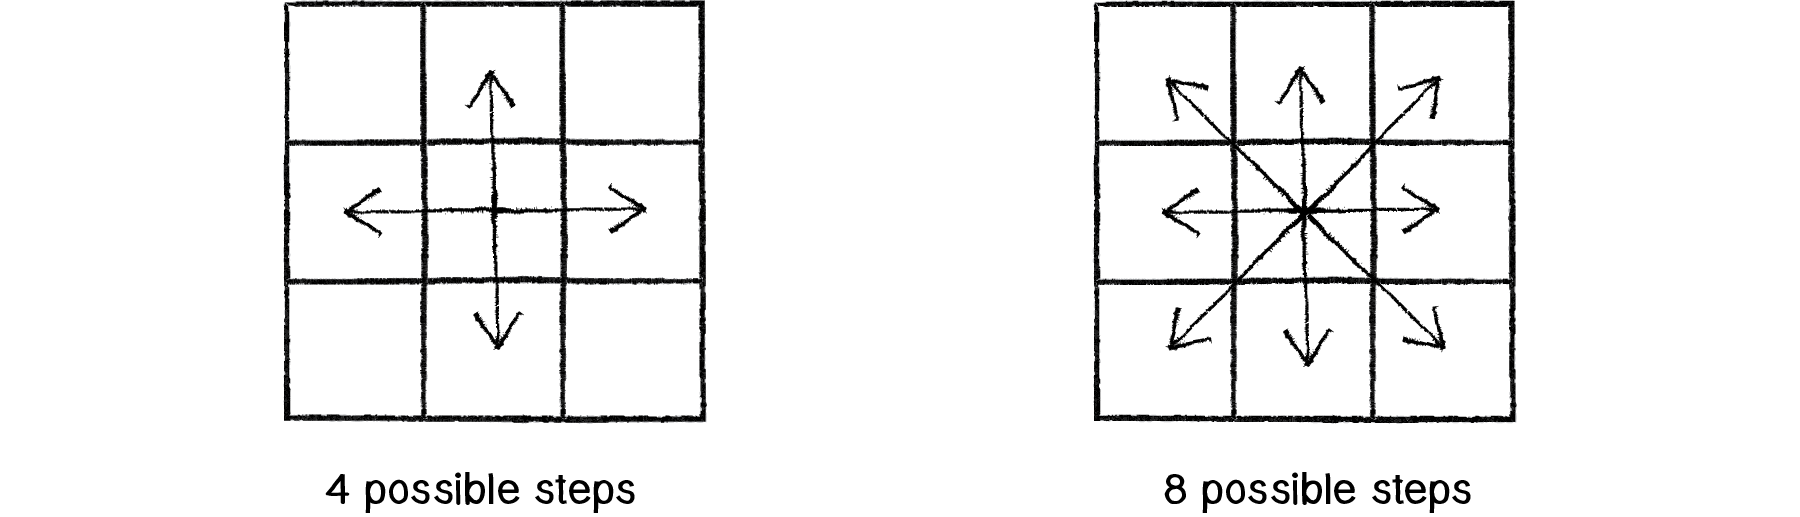
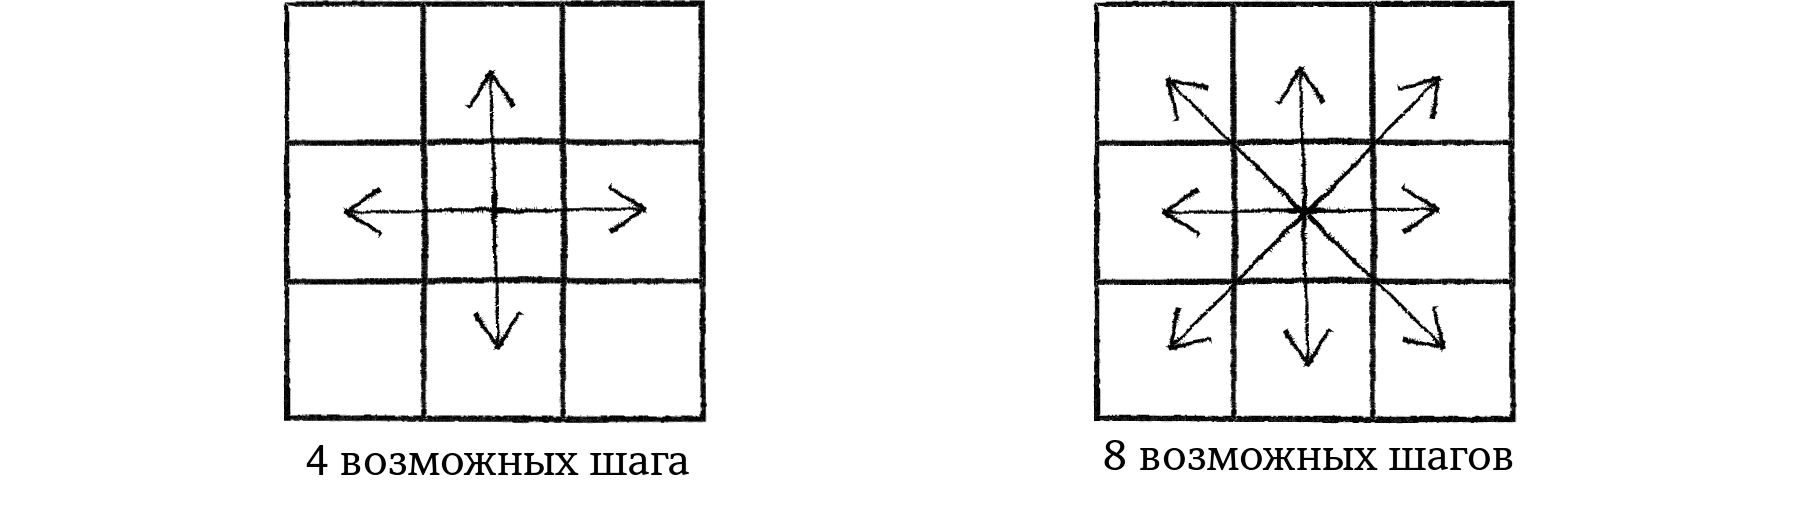
intro 1

Changed region(s): [[0.1556, 0.8665, 0.4044, 0.9903], [0.5911, 0.8665, 0.84, 0.9903]]

diff --git a/book/index.html b/book/index.html
@@ -225,29 +225,25 @@
                     </div>
                     <div style="position: relative;clear:both;display:block;height:1px;width:100%;"></div>
                 </div>
-                <p>The second function directs the <span class="klass">Walker</span> object to take a step. Now, this is where things get a bit more interesting. Remember that floor on which we were taking random steps? Well, now we can use a Processing window in that same capacity. There are four possible steps. A step to the right can be simulated by incrementing <span class="var">x</span> (<span class="var">x</span>++); to the left by decrementing <span class="var">x</span> (<span class="var">x--</span>); forward by going down a pixel (<span class="var">y++</span>); and backward by going up a pixel (<span class="var">y--</span>). How do we pick from these four choices? Earlier we stated that we could flip two coins. In Processing, however, when we want to randomly choose from a list of options, we can pick a random number using <span class="function">random()</span>.</p>
-                <p>
-                    <a id="random-number-generatorsrandom-function-81ed4850-253f-0130-ba1b-7cd1c3f718ad" style="display: block;"></a>
-                    <a id="random-function-81ed5ba0-253f-0130-ba1c-7cd1c3f718ad" style="display: block;"></a>
-                </p>
+                <p>Вторая функция выбирает направление объекта<span class="klass">Walker</span> для следующего шага. Теперь всё становиться немного интереснее. Помните,как вы выбирали направление движения на полу? Сейчас используем Processing для отображения. У нас есть четыре возможных варианта. Шаг вправо будет реализован увеличение x на один <span class="var">x</span> (<span class="var">x</span>++); влево уменьшение x на один <span class="var">x</span> (<span class="var">x--</span>); вперёд, спустившись на один пиксель (<span class="var">y++</span>); и назад, поднявшись на один (<span class="var">y--</span>). Как выбрать из этих вариантов? Ранее мы подбрасывали две монетки. В Processing, однако,когда мы захотим случайно выбрать из списка вариантов, мы выберем случайное число с помощью функции <span class="function">random()</span>.</p>
                 <div class="source-code">
                     <a class="toggle" href="#" data-to-raw='Показать исходники' data-to-formatted='Показать отформатированный'>Показать исходники</a>
-                    <textarea> void step() { // 0, 1, 2, or 3 int choice = int(random(4));</textarea>
+                    <textarea> void step() { // 0, 1, 2, или 3 int choice = int(random(4));</textarea>
                     <div class="code-block">
                         <div class='code-comment-pair no-comment'><code><pre><span class='one-line'>  <span class="kt">void</span> <span class="nf">step</span><span class="o">()</span> <span class="o">{</span></span></pre></code></div>
                         <div class='code-comment-pair '>
-                            <div class='code-comment '>0, 1, 2, or 3</div><code><pre><span class='one-line'>    <span class="kt">int</span> <span class="n">choice</span> <span class="o">=</span> <span class="kt">int</span><span class="o">(</span><span class="n">random</span><span class="o">(</span><span class="mi">4</span><span class="o">));</span></span></pre></code></div>
+                            <div class='code-comment '>0, 1, 2, или 3</div><code><pre><span class='one-line'>    <span class="kt">int</span> <span class="n">choice</span> <span class="o">=</span> <span class="kt">int</span><span class="o">(</span><span class="n">random</span><span class="o">(</span><span class="mi">4</span><span class="o">));</span></span></pre></code></div>
                     </div>
                     <div style="position: relative;clear:both;display:block;height:1px;width:100%;"></div>
                 </div>
-                <p>The above line of code picks a random floating point number between 0 and 4 and converts it to an integer, with a result of 0, 1, 2, or 3. Technically speaking, the highest number will never be 4.0, but rather 3.999999999 (with as many 9s as there are decimal places); since the process of converting to an integer lops off the decimal place, the highest <span class="var">int</span> we can get is 3. Next, we take the appropriate step (left, right, up, or down) depending on which random number was picked.</p>
+                <p>Строка кода выше выбирает случайное число с плавающей запятой (float), находящееся между 0 и 4. Технически говоря, наибольшее число не когда не будет ровно 4.0, оно будет 3.999999999 (с большим кол-вом 9 после запятой); так как процесс перевода к целому числу отсекает всё после запятой, то наибольшее <span class="var">целое число</span>, которе мы можем получить - это 3. Дальше, мы выбирает соответствующее направление (влево, вправо, вверх, или вниз) в зависимости от случайного число.</p>
                 <div class="source-code">
                     <a class="toggle" href="#" data-to-raw='Показать исходники' data-to-formatted='Показать отформатированный'>Показать исходники</a>
-                    <textarea> //[full] The random “choice” determines our step. if (choice == 0) { x++; } else if (choice == 1) { x--; } else if (choice == 2) { y++; } else { y--; } //[end] } }
+                    <textarea> //[full] Случайный “выбор” определяет направление движения. if (choice == 0) { x++; } else if (choice == 1) { x--; } else if (choice == 2) { y++; } else { y--; } //[end] } }
                     </textarea>
                     <div class="code-block">
                         <div class='code-comment-pair stretch'>
-                            <div class='code-comment stretch'> The random “choice” determines our step.</div><code><pre><span class='one-line'>    <span class="k">if</span> <span class="o">(</span><span class="n">choice</span> <span class="o">==</span> <span class="mi">0</span><span class="o">)</span> <span class="o">{</span></span>
+                            <div class='code-comment stretch'> Случайный “выбор” определяет направление движения.</div><code><pre><span class='one-line'>    <span class="k">if</span> <span class="o">(</span><span class="n">choice</span> <span class="o">==</span> <span class="mi">0</span><span class="o">)</span> <span class="o">{</span></span>
 <span class='one-line'>      <span class="n">x</span><span class="o">++;</span></span>
 <span class='one-line'>    <span class="o">}</span> <span class="k">else</span> <span class="k">if</span> <span class="o">(</span><span class="n">choice</span> <span class="o">==</span> <span class="mi">1</span><span class="o">)</span> <span class="o">{</span></span>
 <span class='one-line'>      <span class="n">x</span><span class="o">--;</span></span>
@@ -263,13 +259,13 @@
                     </div>
                     <div style="position: relative;clear:both;display:block;height:1px;width:100%;"></div>
                 </div>
-                <p>Now that we’ve written the class, it’s time to make an actual <span class="klass">Walker</span> object in the main part of our sketch—<span class="function">setup()</span> and <span class="function">draw()</span>. Assuming we are looking to model a single random walk, we declare one global variable of type <span class="var">Walker</span>.</p>
+                <p>Когда мы написали класс, настало время создать из него объект <span class="klass">Walker</span> в основной части нашего эскиза—<span class="function">setup()</span> и <span class="function">draw()</span>. Предполагая, что мы будем рассматривать только одну модель движения, мы объявляем глобальную переменную типа <span class="var">Walker</span>.</p>
                 <div class="source-code">
                     <a class="toggle" href="#" data-to-raw='Показать исходники' data-to-formatted='Показать отформатированный'>Показать исходники</a>
-                    <textarea>// A Walker object Walker w;</textarea>
+                    <textarea>// Объект Walker w;</textarea>
                     <div class="code-block">
                         <div class='code-comment-pair '>
-                            <div class='code-comment '>A Walker object</div><code><pre><span class='one-line'><span class="n">Walker</span> <span class="n">w</span><span class="o">;</span></span></pre></code></div>
+                            <div class='code-comment '>Объект Walker</div><code><pre><span class='one-line'><span class="n">Walker</span> <span class="n">w</span><span class="o">;</span></span></pre></code></div>
                     </div>
                     <div style="position: relative;clear:both;display:block;height:1px;width:100%;"></div>
                 </div>
@@ -277,33 +273,33 @@
                     <a id="new-operator-objects-81ed9eb0-253f-0130-ba1d-7cd1c3f718ad" style="display: block;"></a>
                     <a id="objectnew-operator-81edaf10-253f-0130-ba1e-7cd1c3f718ad" style="display: block;"></a>
                 </p>
-                <p>Then we create the object in <span class="function">setup()</span> by calling the constructor with the <span class="function">new</span> operator.</p>
+                <p>Далее мы создаём объект в <span class="function">setup()</span> путём вызова конструктора с оператором <span class="function">new</span>.</p>
                 <p>
-                    <a id="intro_example1" style="display: block;"></a><span class="example">Example I.1: Traditional random walk</span></p>
-                <p><em>Each time you see the above Example heading in this book, it means there is a corresponding code example available on <a href="http://github.com/shiffman/The-Nature-of-Code-Examples">GitHub</a>.</em></p>
+                    <a id="intro_example1" style="display: block;"></a><span class="example">Пример I.1: Традиционное перемещение в случайном направлении</span></p>
+                <p><em>Каждый раз, когда вы видите заголовок "Пример", это значит, что данный код можно найти на <a href="http://github.com/shiffman/The-Nature-of-Code-Examples">GitHub</a>.</em></p>
                 <div class="source-code">
                     <a class="toggle" href="#" data-to-raw='Показать исходники' data-to-formatted='Показать отформатированный'>Показать исходники</a>
-                    <textarea>void setup() { size(640,360); // Create the Walker. w = new Walker(); //[bold] background(255); }
+                    <textarea>void setup() { size(640,360); // Создание Walker. w = new Walker(); //[bold] background(255); }
                     </textarea>
                     <div class="code-block">
                         <div class='code-comment-pair no-comment'><code><pre><span class='one-line'><span class="kt">void</span> <span class="nf">setup</span><span class="o">()</span> <span class="o">{</span></span>
 <span class='one-line'>  <span class="n">size</span><span class="o">(</span><span class="mi">640</span><span class="o">,</span><span class="mi">360</span><span class="o">);</span></span></pre></code></div>
                         <div class='code-comment-pair '>
-                            <div class='code-comment '>Create the Walker.</div><code><pre><span class='one-line'>  <strong><span class="n">w</span> <span class="o">=</span> <span class="k">new</span> <span class="n">Walker</span><span class="o">();</span></strong></span>
+                            <div class='code-comment '>Создание Walker.</div><code><pre><span class='one-line'>  <strong><span class="n">w</span> <span class="o">=</span> <span class="k">new</span> <span class="n">Walker</span><span class="o">();</span></strong></span>
 <span class='one-line'>  <span class="n">background</span><span class="o">(</span><span class="mi">255</span><span class="o">);</span></span>
 <span class='one-line'><span class="o">}</span></span></pre></code></div>
                     </div>
                     <div style="position: relative;clear:both;display:block;height:1px;width:100%;"></div>
                 </div>
-                <p>Finally, during each cycle through <span class="function">draw()</span>, we ask the <span class="klass">Walker</span> to take a step and draw a dot.</p>
+                <p>Наконец, во время каждого вызова <span class="function">draw()</span>, мы просим <span class="klass">Walker</span> сделать шаг и отрисовать точку.</p>
                 <div class="source-code">
                     <a class="toggle" href="#" data-to-raw='Показать исходники' data-to-formatted='Показать отформатированный'>Показать исходники</a>
-                    <textarea>void draw() { //[full] Call functions on the Walker. w.step(); //[bold] w.display(); //[bold] //[end] }
+                    <textarea>void draw() { //[full] Вызов функции Walker'a. w.step(); //[bold] w.display(); //[bold] //[end] }
                     </textarea>
                     <div class="code-block">
                         <div class='code-comment-pair no-comment'><code><pre><span class='one-line'><span class="kt">void</span> <span class="nf">draw</span><span class="o">()</span> <span class="o">{</span></span></pre></code></div>
                         <div class='code-comment-pair stretch'>
-                            <div class='code-comment stretch'> Call functions on the Walker.</div><code><pre><span class='one-line'>  <strong><span class="n">w</span><span class="o">.</span><span class="na">step</span><span class="o">();</span></strong></span>
+                            <div class='code-comment stretch'> Вызов функции Walker'a</div><code><pre><span class='one-line'>  <strong><span class="n">w</span><span class="o">.</span><span class="na">step</span><span class="o">();</span></strong></span>
 <span class='one-line'>  <strong><span class="n">w</span><span class="o">.</span><span class="na">display</span><span class="o">();</span></strong></span></pre></code>
                             <div style='position:relative;clear:both;display:block;height:1px;width:100%;'></div>
                         </div>
@@ -311,21 +307,21 @@
                     </div>
                     <div style="position: relative;clear:both;display:block;height:1px;width:100%;"></div>
                 </div>
-                <p>Since we only draw the background once in <span class="function">setup()</span>, rather than clearing it continually each time through <span class="function">draw()</span>, we see the trail of the random walk in our Processing window.</p>
+                <p>Поскольку мы отрисовываем фон только один раз в <span class="function">setup()</span>, и не очищаем каждый раз при вызове <span class="function">draw()</span>, мы видим весь путь на нашем Processing окне.</p>
                 <div class="image-container screenshot">
                     <canvas data-processing-sources="/processingjs/intro/_I_1_RandomWalkTraditional/_I_1_RandomWalkTraditional.pde /processingjs/intro/_I_1_RandomWalkTraditional/Walker.pde" class="screenshot">
-                        <p>Your browser does not support the canvas tag.</p>
+                        <p>Ваш браузер не поддерживает canvas тег.</p>
                     </canvas>
                     <div class="sketch-controls">
-                        <button class="reset">RESET</button>
-                        <button class="pause">PAUSE</button>
+                        <button class="reset">СБРОС</button>
+                        <button class="pause">ПАУЗА</button>
                     </div>
                 </div>
-                <p>There are a couple improvements we could make to the random walker. For one, this <span class="klass">Walker</span>’s step choices are limited to four options—up, down, left, and right. But any given pixel in the window has eight possible neighbors, and a ninth possibility is to stay in the same place.</p>
+                <p>Есть несколько улучшений, которые мы могли бы сделать. Во-первых, <span class="klass">Walker</span> выбирает из четырех вариантов движения: вверх, вниз, влево, и право. Но любой пиксель на экране имеет восемь соседей, и девятый возможный вариант - оставаться на месте.</p>
                 <a id="intro_figure1" style="display: block;"></a>
                 <div class="image-container ">
                     <img src="/imgs/intro/intro_01.png" alt="Nature of Code Image" />
-                    <p class="caption">Figure I.1</p>
+                    <p class="caption">Рисунок I.1</p>
                 </div>
                 <p>To implement a <span class="klass">Walker</span> object that can step to any neighboring pixel (or stay put), we could pick a number between 0 and 8 (nine possible choices). However, a more efficient way to write the code would be to simply pick from three possible steps along the x-axis (-1, 0, or 1) and three possible steps along the y-axis.</p>
                 <div class="source-code">
@@ -371,7 +367,7 @@
                 <p>Conveniently, this is how the <span class="function">random()</span> function works. Processing’s random number generator (which operates behind the scenes) produces what is known as a “uniform” distribution of numbers. We can test this distribution with a Processing sketch that counts each time a random number is picked and graphs it as the height of a rectangle.</p>
                 <div class="image-container screenshot">
                     <canvas data-processing-sources="/processingjs/intro/_I_2_RandomDistribution/_I_2_RandomDistribution.pde" class="screenshot">
-                        <p>Your browser does not support the canvas tag.</p>
+                        <p>Ваш браузер не поддерживает canvas тег.</p>
                     </canvas>
                     <div class="sketch-controls">
                         <button class="reset">RESET</button>
@@ -562,7 +558,7 @@
                 </div>
                 <div class="image-container screenshot">
                     <canvas data-processing-sources="/processingjs/intro/_I_3_RandomWalkTendsToRight/_I_3_RandomWalkTendsToRight.pde /processingjs/intro/_I_3_RandomWalkTendsToRight/Walker.pde" class="screenshot">
-                        <p>Your browser does not support the canvas tag.</p>
+                        <p>Ваш браузер не поддерживает canvas тег.</p>
                     </canvas>
                     <div class="sketch-controls">
                         <button class="reset">RESET</button>
@@ -572,7 +568,7 @@
                 <p>
                     <a id="intro_example3" style="display: block;"></a><span class="example">Example I.3: Walker that tends to move to the right</span></p>
                 <div class="source-code">
-                    <a class="toggle" href="#" data-to-raw='Показать исходники' data-to-formatted='Show Formatted'>Показать исходники</a>
+                    <a class="toggle" href="#" data-to-raw='Показать исходники' data-to-formatted='Показать отформатированный'>Показать исходники</a>
                     <textarea> void step() { float r = random(1); //[full] A 40% chance of moving to the right! if (r
                         < 0.4) { x++; //[end] } else if (r < 0.6) { x--; } else if (r < 0.8) { y++; } else { y--; } }</textarea>
                             <div class="code-block">
@@ -606,7 +602,7 @@
                 <h3 id="i4-a-normal-distribution-of-random-numbers">I.4 A Normal Distribution of Random Numbers</h3>
                 <p>Let’s go back to that population of simulated Processing monkeys. Your program generates a thousand Monkey objects, each with a height value between 200 and 300 (as this is a world of monkeys that have heights between 200 and 300 pixels).</p>
                 <div class="source-code">
-                    <a class="toggle" href="#" data-to-raw='Показать исходники' data-to-formatted='Show Formatted'>Показать исходники</a>
+                    <a class="toggle" href="#" data-to-raw='Показать исходники' data-to-formatted='Показать отформатированный'>Показать исходники</a>
                     <textarea>float h = random(200,300);</textarea>
                     <div class="code-block">
                         <div class='code-comment-pair no-comment'><code><pre><span class='one-line'><span class="kt">float</span> <span class="n">h</span> <span class="o">=</span> <span class="n">random</span><span class="o">(</span><span class="mi">200</span><span class="o">,</span><span class="mi">300</span><span class="o">);</span></span></pre></code></div>
@@ -729,7 +725,7 @@
                 <p>Luckily for us, to use a normal distribution of random numbers in a Processing sketch, we don’t have to do any of these calculations ourselves. Instead, we can make use of a class known as <span class="klass">Random</span>, which we get for free as part of the default Java libraries imported into Processing (see <a href="http://docs.oracle.com/javase/6/docs/api/java/util/Random.html">the JavaDocs</a> for more information).</p>
                 <p>To use the <span class="klass">Random</span> class, we must first declare a variable of type <span class="klass">Random</span> and create the <span class="klass">Random</span> object in <span class="function">setup()</span>.</p>
                 <div class="source-code">
-                    <a class="toggle" href="#" data-to-raw='Показать исходники' data-to-formatted='Show Formatted'>Показать исходники</a>
+                    <a class="toggle" href="#" data-to-raw='Показать исходники' data-to-formatted='Показать отформатированный'>Показать исходники</a>
                     <textarea>// We use the variable name “generator” because what we // have here can be thought of as a random number generator. Random generator; void setup() { size(640,360); generator = new Random(); }
                     </textarea>
                     <div class="code-block">
@@ -749,7 +745,7 @@
                 </p>
                 <p>If we want to produce a random number with a normal (or Gaussian) distribution each time we run through <span class="function">draw()</span>, it’s as easy as calling the function <span class="function">nextGaussian()</span>.</p>
                 <div class="source-code">
-                    <a class="toggle" href="#" data-to-raw='Показать исходники' data-to-formatted='Show Formatted'>Показать исходники</a>
+                    <a class="toggle" href="#" data-to-raw='Показать исходники' data-to-formatted='Показать отформатированный'>Показать исходники</a>
                     <textarea>void draw() { // Asking for a Gaussian random number. (Note nextGaussian() returns a double and must be converted to float.) float num = (float) generator.nextGaussian(); }
                     </textarea>
                     <div class="code-block">
@@ -767,7 +763,7 @@
                 <p>The <span class="function">nextGaussian()</span> function returns a normal distribution of random numbers with the following parameters: <em>a mean of zero</em> and <em>a standard deviation of one</em>. Let’s say we want a mean of 320 (the center horizontal pixel in a window of width 640) and a standard deviation of 60 pixels. We can adjust the value to our parameters by multiplying it by the standard deviation and adding the mean.</p>
                 <div class="image-container screenshot">
                     <canvas data-processing-sources="/processingjs/intro/_I_4_Gaussian/_I_4_Gaussian.pde" class="screenshot">
-                        <p>Your browser does not support the canvas tag.</p>
+                        <p>Ваш браузер не поддерживает canvas тег.</p>
                     </canvas>
                     <div class="sketch-controls">
                         <button class="reset">RESET</button>
@@ -777,7 +773,7 @@
                 <p>
                     <a id="intro_example4" style="display: block;"></a><span class="example">Example I.4: Gaussian distribution</span></p>
                 <div class="source-code">
-                    <a class="toggle" href="#" data-to-raw='Показать исходники' data-to-formatted='Show Formatted'>Показать исходники</a>
+                    <a class="toggle" href="#" data-to-raw='Показать исходники' data-to-formatted='Показать отформатированный'>Показать исходники</a>
                     <textarea>void draw() { // Note that nextGaussian() returns a double. float num = (float) generator.nextGaussian(); float sd = 60; float mean = 320; // Multiply by the standard deviation and add the mean. float x = sd * num + mean; noStroke(); fill(255,10); ellipse(x,180,16,16); }
                     </textarea>
                     <div class="code-block">
@@ -832,7 +828,7 @@
                     <a id="lvy-flightimplementing-with-arrays-81f76300-253f-0130-ba50-7cd1c3f718ad" style="display: block;"></a>
                 </p>
                 <div class="source-code">
-                    <a class="toggle" href="#" data-to-raw='Показать исходники' data-to-formatted='Show Formatted'>Показать исходники</a>
+                    <a class="toggle" href="#" data-to-raw='Показать исходники' data-to-formatted='Показать отформатированный'>Показать исходники</a>
                     <textarea>float r = random(1); //[full] A 1% chance of taking a large step if (r
                         < 0.01) { xstep=r andom(-100,100); ystep=r andom(-100,100); //[end] } else { xstep=r andom(-1,1); ystep=r andom(-1,1); }</textarea>
                             <div class="code-block">
@@ -905,7 +901,7 @@
                 </p>
                 <p>Here is a function (named for the Monte Carlo method, which was named for the Monte Carlo casino) that implements the above algorithm, returning a random value between 0 and 1.</p>
                 <div class="source-code">
-                    <a class="toggle" href="#" data-to-raw='Показать исходники' data-to-formatted='Show Formatted'>Показать исходники</a>
+                    <a class="toggle" href="#" data-to-raw='Показать исходники' data-to-formatted='Показать отформатированный'>Показать исходники</a>
                     <textarea>float montecarlo() { // We do this “forever” until we find a qualifying random value. while (true) { // Pick a random value. float r1 = random(1); // Assign a probability. float probability = r1; // Pick a second random value. float r2 = random(1); //[full] Does it qualify? If so, we’re done! if (r2
                         < probability) { return r1; } //[end] } }</textarea>
                             <div class="code-block">
@@ -935,7 +931,7 @@
                     <h4 id="exercise-i6">Exercise I.6</h4>
                     <p>Use a custom probability distribution to vary the size of a step taken by the random walker. The step size can be determined by influencing the range of values picked. Can you map the probability exponentially—i.e. making the likelihood that a value is picked equal to the value squared?</p>
                     <div class="source-code">
-                        <a class="toggle" href="#" data-to-raw='Показать исходники' data-to-formatted='Show Formatted'>Показать исходники</a>
+                        <a class="toggle" href="#" data-to-raw='Показать исходники' data-to-formatted='Показать отформатированный'>Показать исходники</a>
                         <textarea> // A uniform distribution of step sizes. Change this! float stepsize = random(0,10); float stepx = random(-stepsize,stepsize); float stepy = random(-stepsize,stepsize); x += stepx; y += stepy;</textarea>
                         <div class="code-block">
                             <div class='code-comment-pair '>
@@ -993,7 +989,7 @@
                 </div>
                 <p>Consider drawing a circle in our Processing window at a random x-location.</p>
                 <div class="source-code">
-                    <a class="toggle" href="#" data-to-raw='Показать исходники' data-to-formatted='Show Formatted'>Показать исходники</a>
+                    <a class="toggle" href="#" data-to-raw='Показать исходники' data-to-formatted='Показать отформатированный'>Показать исходники</a>
                     <textarea>// A random x-location float x = random(0,width); ellipse(x,180,16,16);
                     </textarea>
                     <div class="code-block">
@@ -1005,7 +1001,7 @@
                 </div>
                 <p>Now, instead of a random x-location, we want a Perlin noise x-location that is “smoother.” You might think that all you need to do is replace <span class="function">random()</span> with <span class="function">noise()</span>, i.e.</p>
                 <div class="source-code">
-                    <a class="toggle" href="#" data-to-raw='Показать исходники' data-to-formatted='Show Formatted'>Показать исходники</a>
+                    <a class="toggle" href="#" data-to-raw='Показать исходники' data-to-formatted='Показать отформатированный'>Показать исходники</a>
                     <textarea>// A noise x-location? float x = noise(0,width); //[line-through]</textarea>
                     <div class="code-block">
                         <div class='code-comment-pair '>
@@ -1072,7 +1068,7 @@
                 </div>
                 <p>Now, in order to access a particular noise value in Processing, we have to pass a specific "moment in time" to the <span class="function">noise()</span> function. For example:</p>
                 <div class="source-code">
-                    <a class="toggle" href="#" data-to-raw='Показать исходники' data-to-formatted='Show Formatted'>Показать исходники</a>
+                    <a class="toggle" href="#" data-to-raw='Показать исходники' data-to-formatted='Показать отформатированный'>Показать исходники</a>
                     <textarea>float n = noise(3);</textarea>
                     <div class="code-block">
                         <div class='code-comment-pair no-comment'><code><pre><span class='one-line'><span class="kt">float</span> <span class="n">n</span> <span class="o">=</span> <span class="n">noise</span><span class="o">(</span><span class="mi">3</span><span class="o">);</span></span></pre></code></div>
@@ -1081,7 +1077,7 @@
                 </div>
                 <p>According to the above table, <span class="function">noise(3)</span> will return 0.364 at time equals 3. We could improve this by using a variable for time and asking for a noise value continuously in <span class="function">draw()</span>.</p>
                 <div class="source-code">
-                    <a class="toggle" href="#" data-to-raw='Показать исходники' data-to-formatted='Show Formatted'>Показать исходники</a>
+                    <a class="toggle" href="#" data-to-raw='Показать исходники' data-to-formatted='Показать отформатированный'>Показать исходники</a>
                     <textarea>float t = 3; void draw() { // We need the noise value for a specific moment in time. float n = noise(t); println(n); }
                     </textarea>
                     <div class="code-block">
@@ -1097,7 +1093,7 @@
                 </div>
                 <p>The above code results in the same value printed over and over. This happens because we are asking for the result of the <span class="function">noise()</span> function at the same point in time—3—over and over. If we increment the time variable <span class="var">t</span>, however, we’ll get a different result.</p>
                 <div class="source-code">
-                    <a class="toggle" href="#" data-to-raw='Показать исходники' data-to-formatted='Show Formatted'>Показать исходники</a>
+                    <a class="toggle" href="#" data-to-raw='Показать исходники' data-to-formatted='Показать отформатированный'>Показать исходники</a>
                     <textarea>// Typically we would start at time = 0, though this is arbitrary. float t = 0; void draw() { float n = noise(t); println(n); // Now, we move forward in time! t += 0.01; }
                     </textarea>
                     <div class="code-block">
@@ -1135,7 +1131,7 @@
                     </div>
                     <p>In this case, we know that noise has a range between 0 and 1, but we’d like to draw our circle with a range between 0 and the window’s width.</p>
                     <div class="source-code">
-                        <a class="toggle" href="#" data-to-raw='Показать исходники' data-to-formatted='Show Formatted'>Показать исходники</a>
+                        <a class="toggle" href="#" data-to-raw='Показать исходники' data-to-formatted='Показать отформатированный'>Показать исходники</a>
                         <textarea>float t = 0; void draw() { float n = noise(t); // Using map() to customize the range of Perlin noise float x = map(n,0,1,0,width); ellipse(x,180,16,16); t += 0.01; }
                         </textarea>
                         <div class="code-block">
@@ -1155,7 +1151,7 @@
                     <p>We can apply the exact same logic to our random walker, and assign both its x- and y-values according to Perlin noise.</p>
                     <div class="image-container screenshot">
                         <canvas data-processing-sources="/processingjs/intro/_I_5_NoiseWalk/_I_5_NoiseWalk.pde /processingjs/intro/_I_5_NoiseWalk/Walker.pde" class="screenshot">
-                            <p>Your browser does not support the canvas tag.</p>
+                            <p>Ваш браузер не поддерживает canvas тег.</p>
                         </canvas>
                         <div class="sketch-controls">
                             <button class="reset">RESET</button>
@@ -1165,7 +1161,7 @@
                     <p>
                         <a id="intro_example5" style="display: block;"></a><span class="example">Example I.5: Perlin noise walker</span></p>
                     <div class="source-code">
-                        <a class="toggle" href="#" data-to-raw='Показать исходники' data-to-formatted='Show Formatted'>Показать исходники</a>
+                        <a class="toggle" href="#" data-to-raw='Показать исходники' data-to-formatted='Показать отформатированный'>Показать исходники</a>
                         <textarea>class Walker { float x,y; float tx,ty; Walker() { tx = 0; ty = 10000; } void step() { //[full] x- and y-location mapped from noise x = map(noise(tx), 0, 1, 0, width); y = map(noise(ty), 0, 1, 0, height); //[end] //[full] Move forward through “time.” tx += 0.01; ty += 0.01; //[end] } }
                         </textarea>
                         <div class="code-block">
@@ -1234,7 +1230,7 @@
                     <p>This is why noise was originally invented. You tweak the parameters a bit or play with color to make the resulting image look more like marble or wood or any other organic texture.</p>
                     <p>Let’s take a quick look at how to implement two-dimensional noise in Processing. If you wanted to color every pixel of a window randomly, you would need a nested loop, one that accessed each pixel and picked a random brightness.</p>
                     <div class="source-code">
-                        <a class="toggle" href="#" data-to-raw='Показать исходники' data-to-formatted='Show Formatted'>Показать исходники</a>
+                        <a class="toggle" href="#" data-to-raw='Показать исходники' data-to-formatted='Показать отформатированный'>Показать исходники</a>
                         <textarea>loadPixels(); for (int x = 0; x
                             < width; x++) { for (int y=0 ; y < height; y++) { // A random brightness! float bright=r andom(255); pixels[x+y*width]=c olor(bright); } } updatePixels();</textarea>
                                 <div class="code-block">
@@ -1252,7 +1248,7 @@
                     </div>
                     <p>To color each pixel according to the <span class="function">noise()</span> function, we’ll do exactly the same thing, only instead of calling <span class="function">random()</span> we’ll call <span class="function">noise()</span>.</p>
                     <div class="source-code">
-                        <a class="toggle" href="#" data-to-raw='Показать исходники' data-to-formatted='Show Formatted'>Показать исходники</a>
+                        <a class="toggle" href="#" data-to-raw='Показать исходники' data-to-formatted='Показать отформатированный'>Показать исходники</a>
                         <textarea> // A Perlin noise brightness! float bright = map(noise(x,y),0,1,0,255); //[bold]</textarea>
                         <div class="code-block">
                             <div class='code-comment-pair '>
@@ -1264,7 +1260,7 @@
                     <p>
                         <a id="intro_example6" style="display: block;"></a><span class="example">Example I.6: 2D Perlin noise</span></p>
                     <div class="source-code">
-                        <a class="toggle" href="#" data-to-raw='Показать исходники' data-to-formatted='Show Formatted'>Показать исходники</a>
+                        <a class="toggle" href="#" data-to-raw='Показать исходники' data-to-formatted='Показать отформатированный'>Показать исходники</a>
                         <textarea>// Start xoff at 0. float xoff = 0.0; //[bold] for (int x = 0; x
                             < width; x++) { // For every xoff, start yoff at 0. float yoff=0 .0; //[bold] for (int y=0 ; y < height; y++) { // Use xoff and yoff for noise(). float bright=m ap(noise(xoff,yoff),0,1,0,255); //[bold] // Use x and y for pixel location. pixels[x+y*width]=c olor(bright); // Increment yoff. yoff +=0 .01; //[bold] } // Increment xoff. xoff +=0 .01; //[bold] }</textarea>
                                 <div class="code-block">
@@ -1311,7 +1307,7 @@
                     <a id="intro_figure12" style="display: block;"></a>
                     <div class="image-container two-col">
                         <canvas data-processing-sources="/processingjs/intro/TreeStochasticNoise/TreeStochasticNoise.pde" class="two-col">
-                            <p>Your browser does not support the canvas tag.</p>
+                            <p>Ваш браузер не поддерживает canvas тег.</p>
                         </canvas>
                         <div class="sketch-controls">
                             <button class="reset">RESET</button>
@@ -1322,7 +1318,7 @@
                     <a id="intro_figure13" style="display: block;"></a>
                     <div class="image-container two-col">
                         <canvas data-processing-sources="/processingjs/intro/_6_04_Flowfield/_6_04_Flowfield.pde /processingjs/intro/_6_04_Flowfield/FlowField.pde /processingjs/intro/_6_04_Flowfield/Vehicle.pde" class="two-col">
-                            <p>Your browser does not support the canvas tag.</p>
+                            <p>Ваш браузер не поддерживает canvas тег.</p>
                         </canvas>
                         <div class="sketch-controls">
                             <button class="reset">RESET</button>
@@ -1357,19 +1353,6 @@
                 <p>
                     All of the book's source code is licensed under the <a rel="license" href="http://creativecommons.org/licenses/LGPL/2.1/">GNU Lesser General Public License</a> as published by the Free Software Foundation; either version 2.1 of the License, or (at your option) any later version.
                 </p>
-            </div>
-            <div class="one-third">
-                <h4>Colophon</h4>
-                <p>This book was generated with <a href="https://github.com/runemadsen/Magic-Book-Project">The Magic Book Project</a>.
-                    <p>This book would not have been possible without the generous support of <a href="http://www.kickstarter.com/projects/shiffman/the-nature-of-code-book-project">Kickstarter</a> backers.</p>
-                    <p>This book is typeset on the web in Georgia with headers in Proxima Nova.</p>
-                    <p>Please report any mistakes in the book or bugs in the source with a <a href="https://github.com/shiffman/The-Nature-of-Code/issues?sort=created&state=open">GitHub issue</a> or contact me at <span class="eml">daniel at shiffman dot net</span>.</p>
-            </div>
-            <div class="one-third">
-                <h4>Author</h4>
-                <p>Daniel Shiffman is a professor of the <a href="http://itp.nyu.edu/">Interactive Telecommunications Program</a> at New York University.</p>
-                <p>He is the author of <a href="http://www.learningprocessing.com/">Learning Processing</a>.</p>
-                <p><a href="https://twitter.com/shiffman">Twitter</a> <a href="http://github.com/shiffman">GitHub</a></p>
             </div>
         </div>
     </div>

diff --git a/book/stylesheets/html.css b/book/stylesheets/html.css
@@ -274,17 +274,17 @@ _____________________________________________________________________________*/
 }
 
 #footer .one-third {
-  float: left;
+  /*float: left;*/
   font-size: 13px;
-  margin: 0 1%;
-  margin: 0 -webkit-calc(10px);
+  margin: 0 20%;
+/*  margin: 0 -webkit-calc(10px);
   margin: 0 -moz-calc(10x);
   margin: 0 calc(10px);
   width: 31%;
   width: -webkit-calc(33% - 20px);
   width: -moz-calc(33% - 20px);
   width: calc(33% - 20px);
-}
+*/}
 
 #footer p {
   font-size: 13px;
